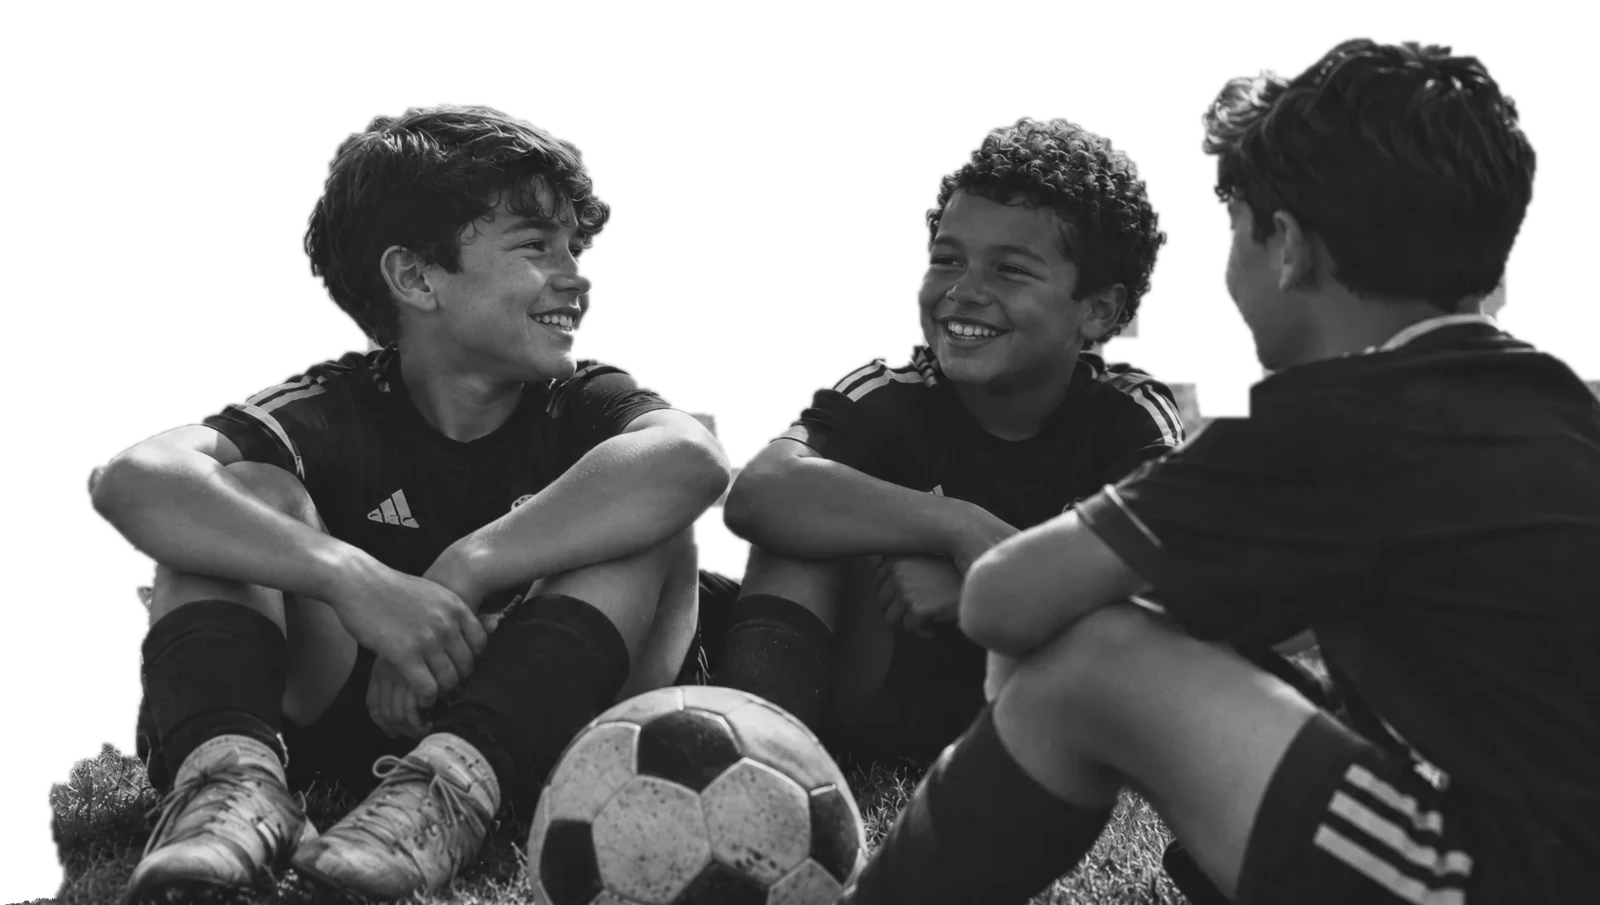
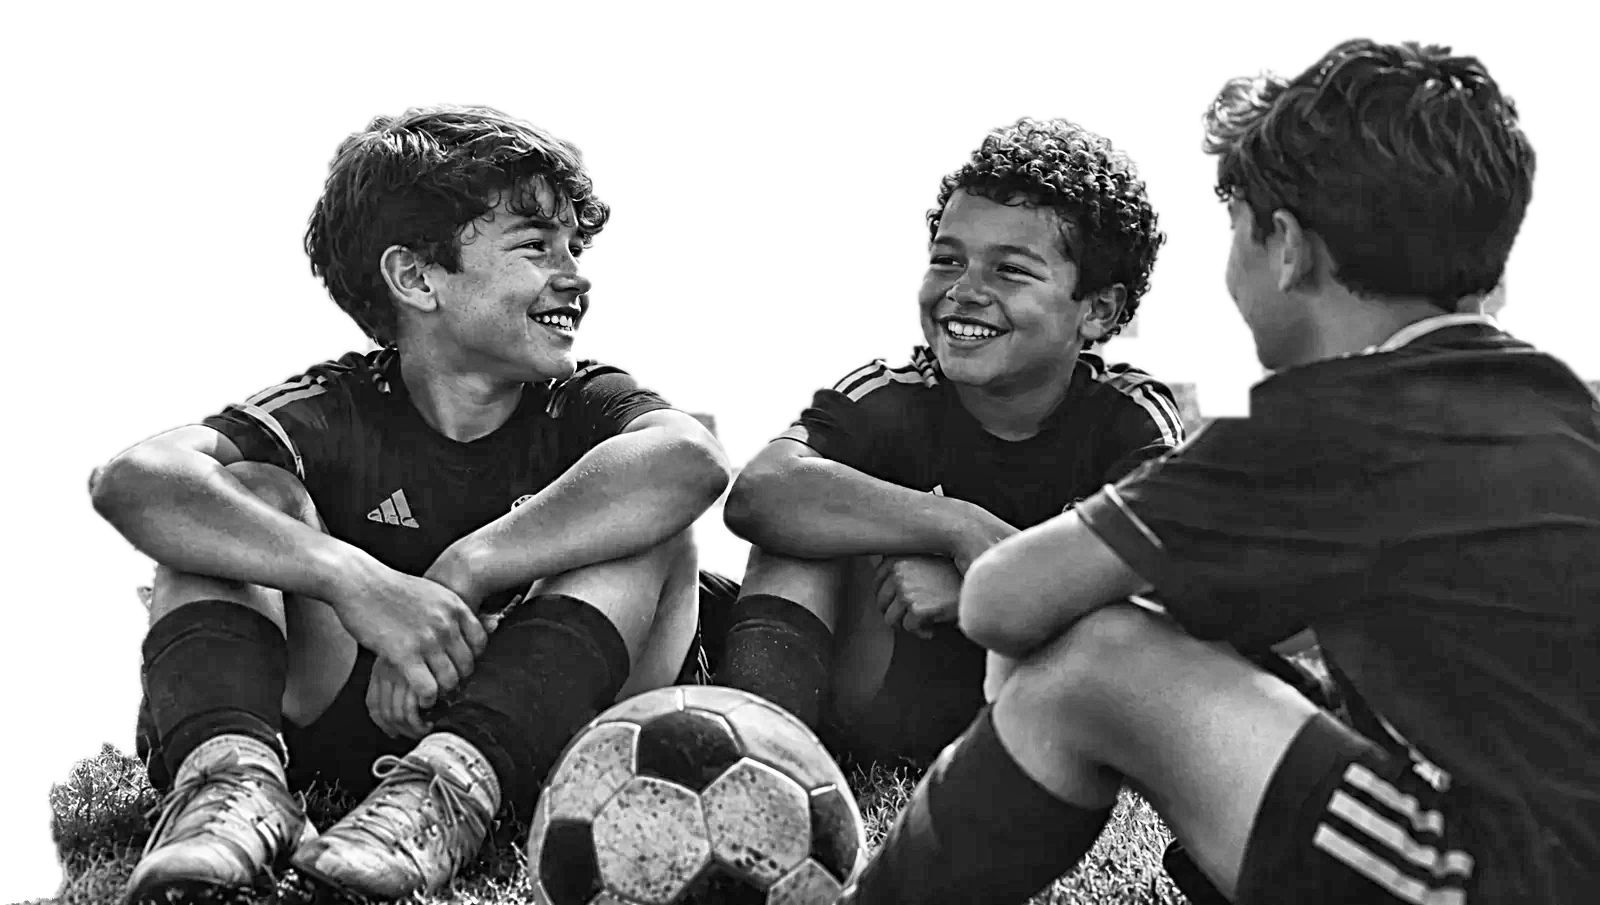
Power Soccer page: clearer children's faces
Finer dots on this photo (4px apart, 3px on phones; HalftonePhoto gets a
spacing prop, 7 by default like the main hero) and local contrast on the
photo so eyes, smiles and hair separate from skin.

Claude-Session: https://claude.ai/code/session_017RfA3wcjfhz4fwKx4Eui2p

diff --git a/components/heroes/HalftonePhoto.tsx b/components/heroes/HalftonePhoto.tsx
@@ -30,7 +30,7 @@ function hash(x: number, y: number) {
   return s - Math.floor(s);
 }
 
-export default function HalftonePhoto({ src, width, height, className = "", interactive = true, introAt = 0 }: {
+export default function HalftonePhoto({ src, width, height, className = "", interactive = true, introAt = 0, spacing = 7 }: {
   src: string;
   /** The photo's size in pixels (sets the canvas's shape). */
   width: number;
@@ -40,6 +40,8 @@ export default function HalftonePhoto({ src, width, height, className = "", inte
   interactive?: boolean;
   /** ms after this appears on the page when the dots start to form (0: as soon as the photo loads). */
   introAt?: number;
+  /** px between dots on wide screens (3/4 of it on phones). 7 is the main hero's. */
+  spacing?: number;
 }) {
   const ref = useRef<HTMLCanvasElement>(null);
 
@@ -138,7 +140,7 @@ export default function HalftonePhoto({ src, width, height, className = "", inte
       canvas.width = Math.round(w * dpr); canvas.height = Math.round(h * dpr);
       ctx.setTransform(dpr, 0, 0, dpr, 0, 0);
       // The main hero's dot spacing: 7px apart, 5px on phones.
-      sp = window.innerWidth < 860 ? 5 : 7;
+      sp = window.innerWidth < 860 ? spacing * 0.75 : spacing;
       box = null;
       cols = Math.ceil(w / sp) + 1; rows = Math.ceil(h / sp) + 1;
       sample();
@@ -257,7 +259,7 @@ export default function HalftonePhoto({ src, width, height, className = "", inte
       window.removeEventListener("pointermove", onMove);
       document.documentElement.removeEventListener("pointerleave", onLeave);
     };
-  }, [src, interactive, introAt]);
+  }, [src, interactive, introAt, spacing]);
 
   return <canvas ref={ref} aria-hidden="true" style={{ aspectRatio: `${width} / ${height}` }} className={`block ${className}`} />;
 }

diff --git a/components/PowerSoccerHero.tsx b/components/PowerSoccerHero.tsx
@@ -104,6 +104,7 @@ export default function PowerSoccerHero({ preview = false }: { preview?: boolean
           height={905}
           interactive={!preview}
           introAt={PLAYERS_AT * 1000}
+          spacing={4} // finer than the main hero's 7, so the children's faces read
           className="mix-blend-multiply absolute right-[-5%] bottom-0 w-[66%] max-[860px]:static max-[860px]:order-2 max-[860px]:mt-6 max-[860px]:-ml-[18%] max-[860px]:w-[136%] max-[860px]:max-w-none"
         />
         <p className="sr-only">Three young Power Soccer players sitting on the pitch with a ball, laughing together.</p>
